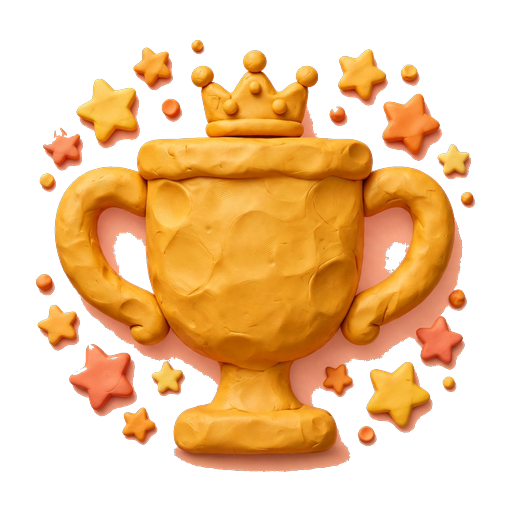
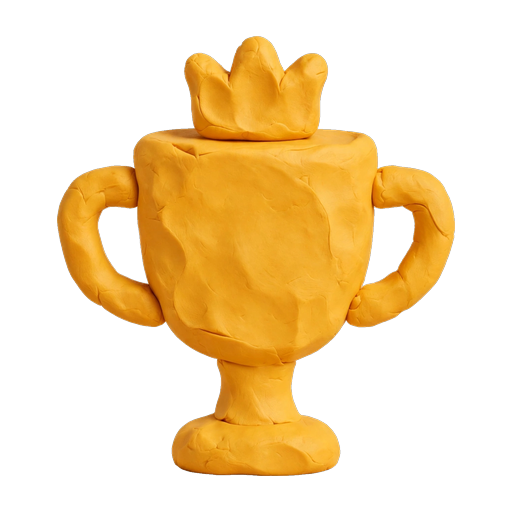
Streak row: clay squares with green checks, trophy D clean no stars/shadow, streak only after Google login

diff --git a/index.html b/index.html
@@ -220,7 +220,7 @@ body.letters-flying #menuScreen{background:linear-gradient(180deg,#fff8ef,#ffe9c
 </div>
 
 <div class="screen" id="dailyScreen" style="background:linear-gradient(180deg,#fff8ef,#ffe9c9);overflow-y:auto"><div style="flex:1;display:flex;flex-direction:column;align-items:center;justify-content:flex-start;gap:16px;padding:12px;text-align:center"><div style="font-weight:900;font-size:22px" id="dailyStreakLabel">Daily question</div><div id="dailyStreakRow" style="display:flex;gap:8px;justify-content:center;flex-wrap:wrap"></div><div style="font-weight:900;font-size:28px" id="dailyStreakCount"></div><img id="dailyStreakAsset" style="width:140px;height:auto;display:none"><div style="font-weight:800;font-size:18px" id="surveyQ"></div><div id="surveyOpts" style="display:flex;flex-direction:column;gap:8px;width:100%;max-width:480px"></div><div id="surveyDone"></div><div id="dailyReward" style="font-weight:900;font-size:20px;display:none"></div></div></div>
-<div class="screen" id="profileScreen" style="background:linear-gradient(180deg,#fff8ef,#ffe9c9);overflow-y:auto"><div style="flex:1;display:flex;flex-direction:column;align-items:center;justify-content:flex-start;gap:16px;padding:12px"><img id="profileAvatar" style="width:72px;height:72px;border-radius:50%;border:3px solid #e8c9a0;object-fit:cover;display:none"><div id="profileName" style="font-weight:900;font-size:22px"></div><div id="profileLevel" style="font-weight:800"></div><div class="card" style="width:100%;max-width:480px"><div style="font-weight:800">Streak</div><div id="profileStreakRow" style="display:flex;gap:8px;justify-content:center;flex-wrap:wrap"></div><div id="profileStreakText" style="font-weight:800;margin-top:8px"></div></div><div class="card" style="width:100%;max-width:480px"><div style="font-weight:800">Stats</div><div id="profileStats"></div></div><div class="card" style="width:100%;max-width:480px"><div style="font-weight:800">Friends</div><div id="friendsList"></div><div style="display:flex;gap:8px;margin-top:8px"><input id="friendName" placeholder="Add a friend"><button id="addFriendBtn">+</button></div><div id="chatBox" style="display:none"><div id="chatTitle"></div><div id="chatMsgs"></div><div style="display:flex;gap:8px"><input id="chatInput"><button id="sendMsgBtn">Send</button></div></div></div><div class="card" style="width:100%;max-width:480px"><div style="font-weight:800">Facebook friends</div><div id="fbFriendsBox" style="width:100%"></div></div><button class="small" id="profileMenuBtn">Menu</button></div></div>
+<div class="screen" id="profileScreen" style="background:linear-gradient(180deg,#fff8ef,#ffe9c9);overflow-y:auto"><div style="flex:1;display:flex;flex-direction:column;align-items:center;justify-content:flex-start;gap:16px;padding:12px"><img id="profileAvatar" style="width:72px;height:72px;border-radius:50%;border:3px solid #e8c9a0;object-fit:cover;display:none"><div id="profileName" style="font-weight:900;font-size:22px"></div><div id="profileLevel" style="font-weight:800"></div><div class="card" id="profileStreakCard" style="width:100%;max-width:480px"><div style="font-weight:800">Streak</div><div id="profileStreakRow" style="display:flex;gap:8px;justify-content:center;flex-wrap:wrap"></div><div id="profileStreakText" style="font-weight:800;margin-top:8px"></div></div><div class="card" style="width:100%;max-width:480px"><div style="font-weight:800">Stats</div><div id="profileStats"></div></div><div class="card" style="width:100%;max-width:480px"><div style="font-weight:800">Friends</div><div id="friendsList"></div><div style="display:flex;gap:8px;margin-top:8px"><input id="friendName" placeholder="Add a friend"><button id="addFriendBtn">+</button></div><div id="chatBox" style="display:none"><div id="chatTitle"></div><div id="chatMsgs"></div><div style="display:flex;gap:8px"><input id="chatInput"><button id="sendMsgBtn">Send</button></div></div></div><div class="card" style="width:100%;max-width:480px"><div style="font-weight:800">Facebook friends</div><div id="fbFriendsBox" style="width:100%"></div></div><button class="small" id="profileMenuBtn">Menu</button></div></div>
 <div class="screen" id="tourneyScreen"><div style="flex:1;display:flex;flex-direction:column;align-items:center;justify-content:center;gap:16px;text-align:center"><div id="tourneyChamp"></div></div></div>
 <script type="module">
 import {initializeApp} from "https://www.gstatic.com/firebasejs/11.6.1/firebase-app.js";
@@ -432,11 +432,11 @@ function dailyDay(){return Math.floor(Date.now()/86400000)}
 function getStreakInfo(){let last=parseInt(localStorage.getItem('tot_daily_last')||'0')||0;let streak=parseInt(localStorage.getItem('tot_daily_streak')||'0')||0;let longest=parseInt(localStorage.getItem('tot_daily_longest')||'0')||0;return {last,streak,longest}}
 function dailyDoneToday(){return !!localStorage.getItem('tot_survey_'+dailyDay())}
 function streakAssetDay(st){return ((st-1)%7)+1}
-function renderStreakRow(elId,curDay){let el=$(elId);if(!el)return;let h='';for(let d=1;d<=7;d++){let op=d<curDay?1:(d===curDay?1:0.35);let sc=d===curDay?1.15:1;h+=`<div style="text-align:center;opacity:${op}"><div style="position:relative;width:44px;height:44px;margin:0 auto;transform:scale(${sc})"><img src="img/trophy-optD.png" style="width:44px;height:44px;object-fit:contain"><span style="position:absolute;top:-4px;right:-4px;width:20px;height:20px;border-radius:50%;background:#ff8a3d;color:#fff;font-weight:900;font-size:13px;display:flex;align-items:center;justify-content:center">${d}</span></div><div style="font-weight:800;font-size:12px">Day ${d}</div></div>`}el.innerHTML=h}
+function renderStreakRow(elId,curDay){let el=$(elId);if(!el)return;if(!(user&&user.photoURL)){el.innerHTML='';return}let h='';for(let d=1;d<=7;d++){let done=d<curDay||(d===curDay&&dailyDoneToday());let op=done?1:(d===curDay?1:0.35);let sc=d===curDay?1.15:1;let check=done?'<span style="position:absolute;inset:0;display:flex;align-items:center;justify-content:center;color:#2e9e4f;font-weight:900;font-size:28px">✓</span>':'';h+=`<div style="text-align:center;opacity:${op}"><div style="position:relative;width:44px;height:44px;margin:0 auto;transform:scale(${sc})"><img src="img/clay-square.png" style="width:44px;height:44px;object-fit:contain">${check}</div><div style="font-weight:800;font-size:12px">Day ${d}</div></div>`}el.innerHTML=h}
 function animateStreakCount(from,to){let el=$('dailyStreakCount');if(!el)return;if(from>=to){el.textContent='Day '+streakAssetDay(to)+' · '+to+' in a row';return}let cur=from;let iv=setInterval(()=>{cur++;el.textContent='Day '+streakAssetDay(cur)+' · '+cur+' in a row';try{sfx(900,.06,'sine',.02,'tap')}catch(e){};if(cur>=to)clearInterval(iv)},180)}
 function showDailyIfNeeded(){if(location.search.indexOf('mini=')!==-1||location.search.indexOf('memory=')!==-1||location.search.indexOf('tourney=')!==-1)return false;if(dailyDoneToday())return false;if(!(user&&user.photoURL))return false;let info=getStreakInfo();let day=dailyDay();let newStreak=(info.last===day-1)?info.streak+1:1;window._dailyNewStreak=newStreak;window._dailyOldStreak=info.streak;window._dailyPending=true;renderSurvey();renderStreakRow('dailyStreakRow',streakAssetDay(newStreak));let asset=$('dailyStreakAsset');if(asset){asset.src='img/trophy-optD.png';asset.style.display='block'}let cnt=$('dailyStreakCount');if(cnt)cnt.textContent='Day '+streakAssetDay(newStreak)+' · '+newStreak+' in a row';show('dailyScreen');animateStreakCount(info.streak,newStreak);return true}
 window.answerDaily=i=>{try{window.answerSurvey(i)}catch(e){};let day=dailyDay();let newStreak=window._dailyNewStreak||1;let info=getStreakInfo();let longest=Math.max(info.longest,newStreak);try{localStorage.setItem('tot_daily_last',String(day));localStorage.setItem('tot_daily_streak',String(newStreak));localStorage.setItem('tot_daily_longest',String(longest))}catch(e){};let assetDay=streakAssetDay(newStreak);let reward=assetDay*5;try{window.addXP&&window.addXP(reward)}catch(e){};if(db&&user){try{setDoc(doc(db,'thisorthat_public','stats-'+user.uid),{streak:newStreak,updatedAt:Date.now()},{merge:true}).catch(()=>{})}catch(e){}}let rw=$('dailyReward');if(rw){rw.style.display='block';rw.textContent='+'+reward+' XP · Day '+assetDay+' streak'};let asset=$('dailyStreakAsset');if(asset){asset.src='img/trophy-optD.png';asset.style.display='block'};renderStreakRow('dailyStreakRow',assetDay);setTimeout(()=>{show('menuScreen')},2800)};
-function renderProfile(){let av=$('profileAvatar');if(av){if(user&&user.photoURL){av.src=user.photoURL;av.style.display='block'}else av.style.display='none'}let nm=$('profileName');if(nm)nm.textContent=(user&&user.displayName)?user.displayName:'Player';let lvl=$('profileLevel');if(lvl){let xp=getXP();lvl.textContent='Level '+xpLevel(xp)+' · '+xp+' XP'};let info=getStreakInfo();renderStreakRow('profileStreakRow',streakAssetDay(info.streak||1));let st=$('profileStreakText');if(st)st.textContent=info.streak?('Current streak: '+info.streak+' days · Longest: '+info.longest+' days'):'No streak yet — answer the daily question to start one';renderFriends();let stats=$('profileStats');if(stats){let total=Object.keys(myPicks).length;let per={cozy:0,food:0,seasons:0,animals:0,color:0};Object.keys(myPicks).forEach(pid=>{let idx=parseInt(pid.slice(1));let pr=PAIRS[idx];if(pr&&pr[4]&&per.hasOwnProperty(pr[4]))per[pr[4]]++});let surveyCount=0;try{for(let k in localStorage){if(k.indexOf('tot_survey_')===0)surveyCount++}}catch(e){};let mini=parseInt(localStorage.getItem('tot_mini_played')||'0')||0;let maxBucket='—',maxN=0;Object.keys(per).forEach(b=>{if(per[b]>maxN){maxN=per[b];maxBucket=b}});let maxTotal=Math.max(1,total);let rows=Object.keys(per).map(b=>`<div style="display:flex;justify-content:space-between;font-weight:800"><span>${b}</span><span>${per[b]} picks</span></div><div style="height:10px;background:#eee;border-radius:5px;overflow:hidden;margin-bottom:6px"><div style="height:100%;width:${Math.round(per[b]/maxTotal*100)}%;background:#ff8a3d"></div></div>`).join('');stats.innerHTML=`<div style="font-weight:800">Total picks: ${total}</div><div style="font-weight:800">Most picked: ${maxBucket}</div><div style="font-weight:800">Daily questions answered: ${surveyCount}</div><div style="font-weight:800">Mini games played: ${mini}</div><div style="margin-top:8px">${rows}</div><div id="profileFirestoreStats" style="font-weight:800;margin-top:8px">Matches / runs: loading…</div>`;if(db&&user){try{getDoc(doc(db,'thisorthat_public','stats-'+user.uid)).then(snap=>{let d=snap.exists()?snap.data():{};let el=$('profileFirestoreStats');if(el)el.textContent=`Matches: ${d.matches||0} · Runs: ${d.runs||0}`}).catch(()=>{})}catch(e){}}}}
+function renderProfile(){let av=$('profileAvatar');if(av){if(user&&user.photoURL){av.src=user.photoURL;av.style.display='block'}else av.style.display='none'}let nm=$('profileName');if(nm)nm.textContent=(user&&user.displayName)?user.displayName:'Player';let lvl=$('profileLevel');if(lvl){let xp=getXP();lvl.textContent='Level '+xpLevel(xp)+' · '+xp+' XP'};let info=getStreakInfo();let psc=$('profileStreakCard');if(psc)psc.style.display=(user&&user.photoURL)?'block':'none';renderStreakRow('profileStreakRow',streakAssetDay(info.streak||1));let st=$('profileStreakText');if(st)st.textContent=info.streak?('Current streak: '+info.streak+' days · Longest: '+info.longest+' days'):'No streak yet — answer the daily question to start one';renderFriends();let stats=$('profileStats');if(stats){let total=Object.keys(myPicks).length;let per={cozy:0,food:0,seasons:0,animals:0,color:0};Object.keys(myPicks).forEach(pid=>{let idx=parseInt(pid.slice(1));let pr=PAIRS[idx];if(pr&&pr[4]&&per.hasOwnProperty(pr[4]))per[pr[4]]++});let surveyCount=0;try{for(let k in localStorage){if(k.indexOf('tot_survey_')===0)surveyCount++}}catch(e){};let mini=parseInt(localStorage.getItem('tot_mini_played')||'0')||0;let maxBucket='—',maxN=0;Object.keys(per).forEach(b=>{if(per[b]>maxN){maxN=per[b];maxBucket=b}});let maxTotal=Math.max(1,total);let rows=Object.keys(per).map(b=>`<div style="display:flex;justify-content:space-between;font-weight:800"><span>${b}</span><span>${per[b]} picks</span></div><div style="height:10px;background:#eee;border-radius:5px;overflow:hidden;margin-bottom:6px"><div style="height:100%;width:${Math.round(per[b]/maxTotal*100)}%;background:#ff8a3d"></div></div>`).join('');stats.innerHTML=`<div style="font-weight:800">Total picks: ${total}</div><div style="font-weight:800">Most picked: ${maxBucket}</div><div style="font-weight:800">Daily questions answered: ${surveyCount}</div><div style="font-weight:800">Mini games played: ${mini}</div><div style="margin-top:8px">${rows}</div><div id="profileFirestoreStats" style="font-weight:800;margin-top:8px">Matches / runs: loading…</div>`;if(db&&user){try{getDoc(doc(db,'thisorthat_public','stats-'+user.uid)).then(snap=>{let d=snap.exists()?snap.data():{};let el=$('profileFirestoreStats');if(el)el.textContent=`Matches: ${d.matches||0} · Runs: ${d.runs||0}`}).catch(()=>{})}catch(e){}}}}
 function renderSurvey(){let day=Math.floor(Date.now()/86400000);let q=SURVEYS[day%SURVEYS.length];let key='tot_survey_'+day;let ans=localStorage.getItem(key);$('surveyQ').textContent=q[0];$('surveyOpts').innerHTML=q[1].map((o,i)=>`<button ${ans?'disabled':''} onclick="window.answerDaily(${i})">${o}</button>`).join('');$('surveyDone').textContent=ans?('Picked: '+q[1][ans]):''}
 window.answerSurvey=i=>{let day=Math.floor(Date.now()/86400000);localStorage.setItem('tot_survey_'+day,String(i));try{window.addXP&&window.addXP(3)}catch(e){};renderSurvey()};
 let friends=JSON.parse(localStorage.getItem('tot_friends')||'[]');let chats=JSON.parse(localStorage.getItem('tot_chats')||'{}');let currentFriend=null;
